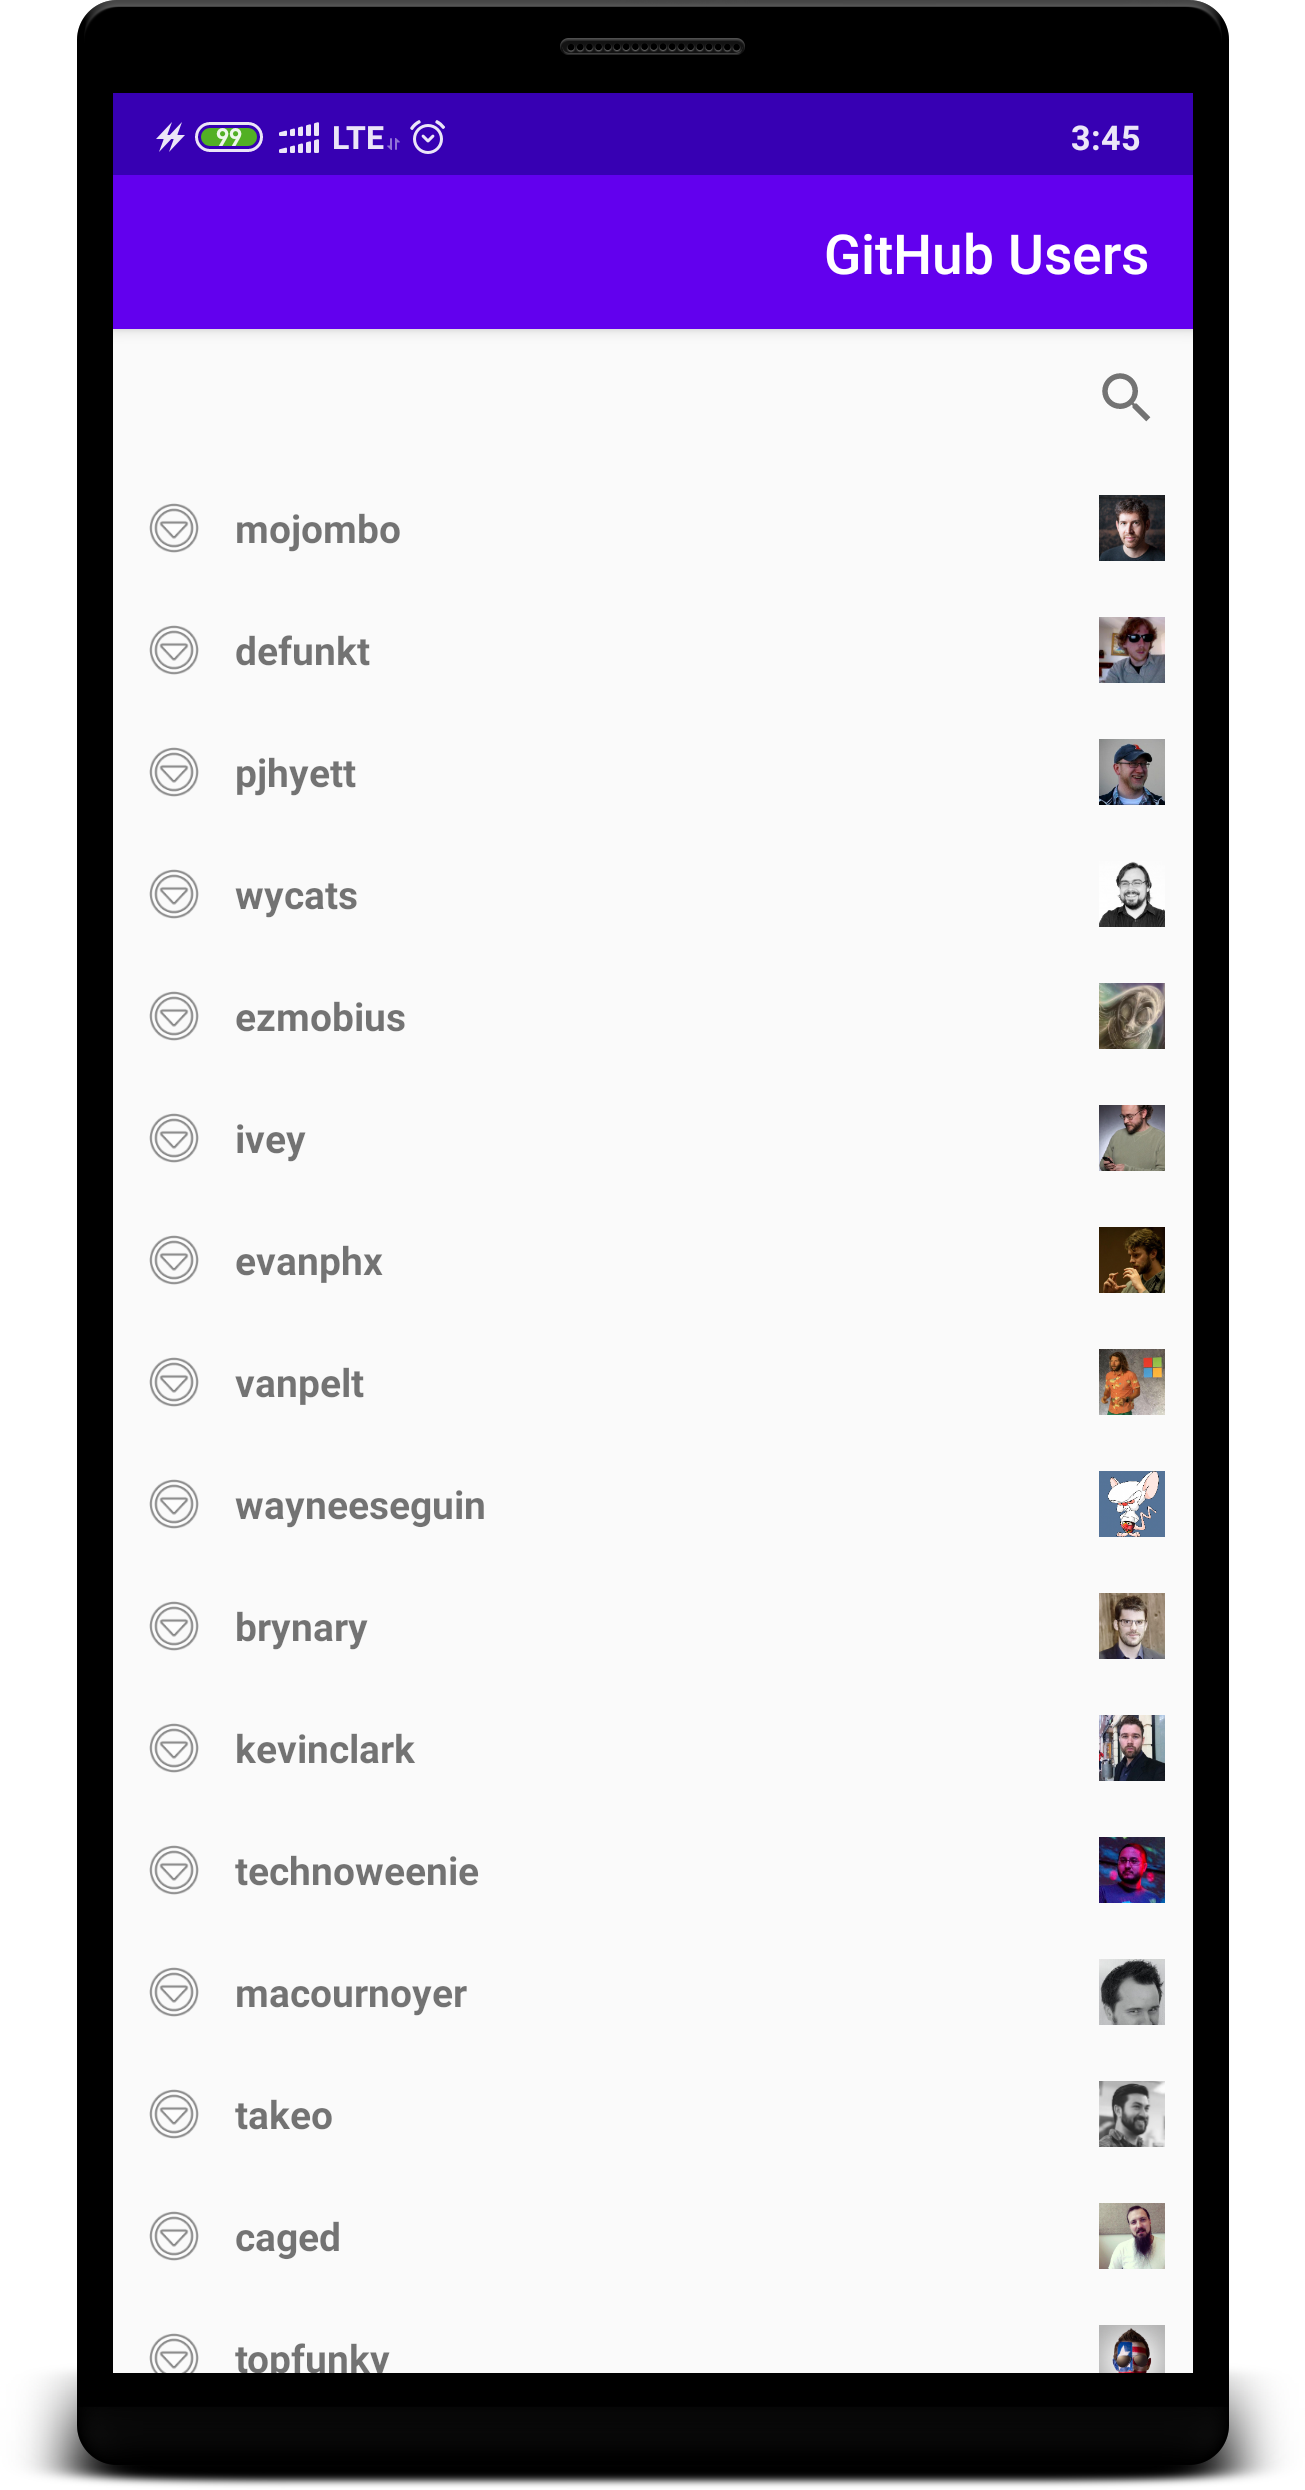
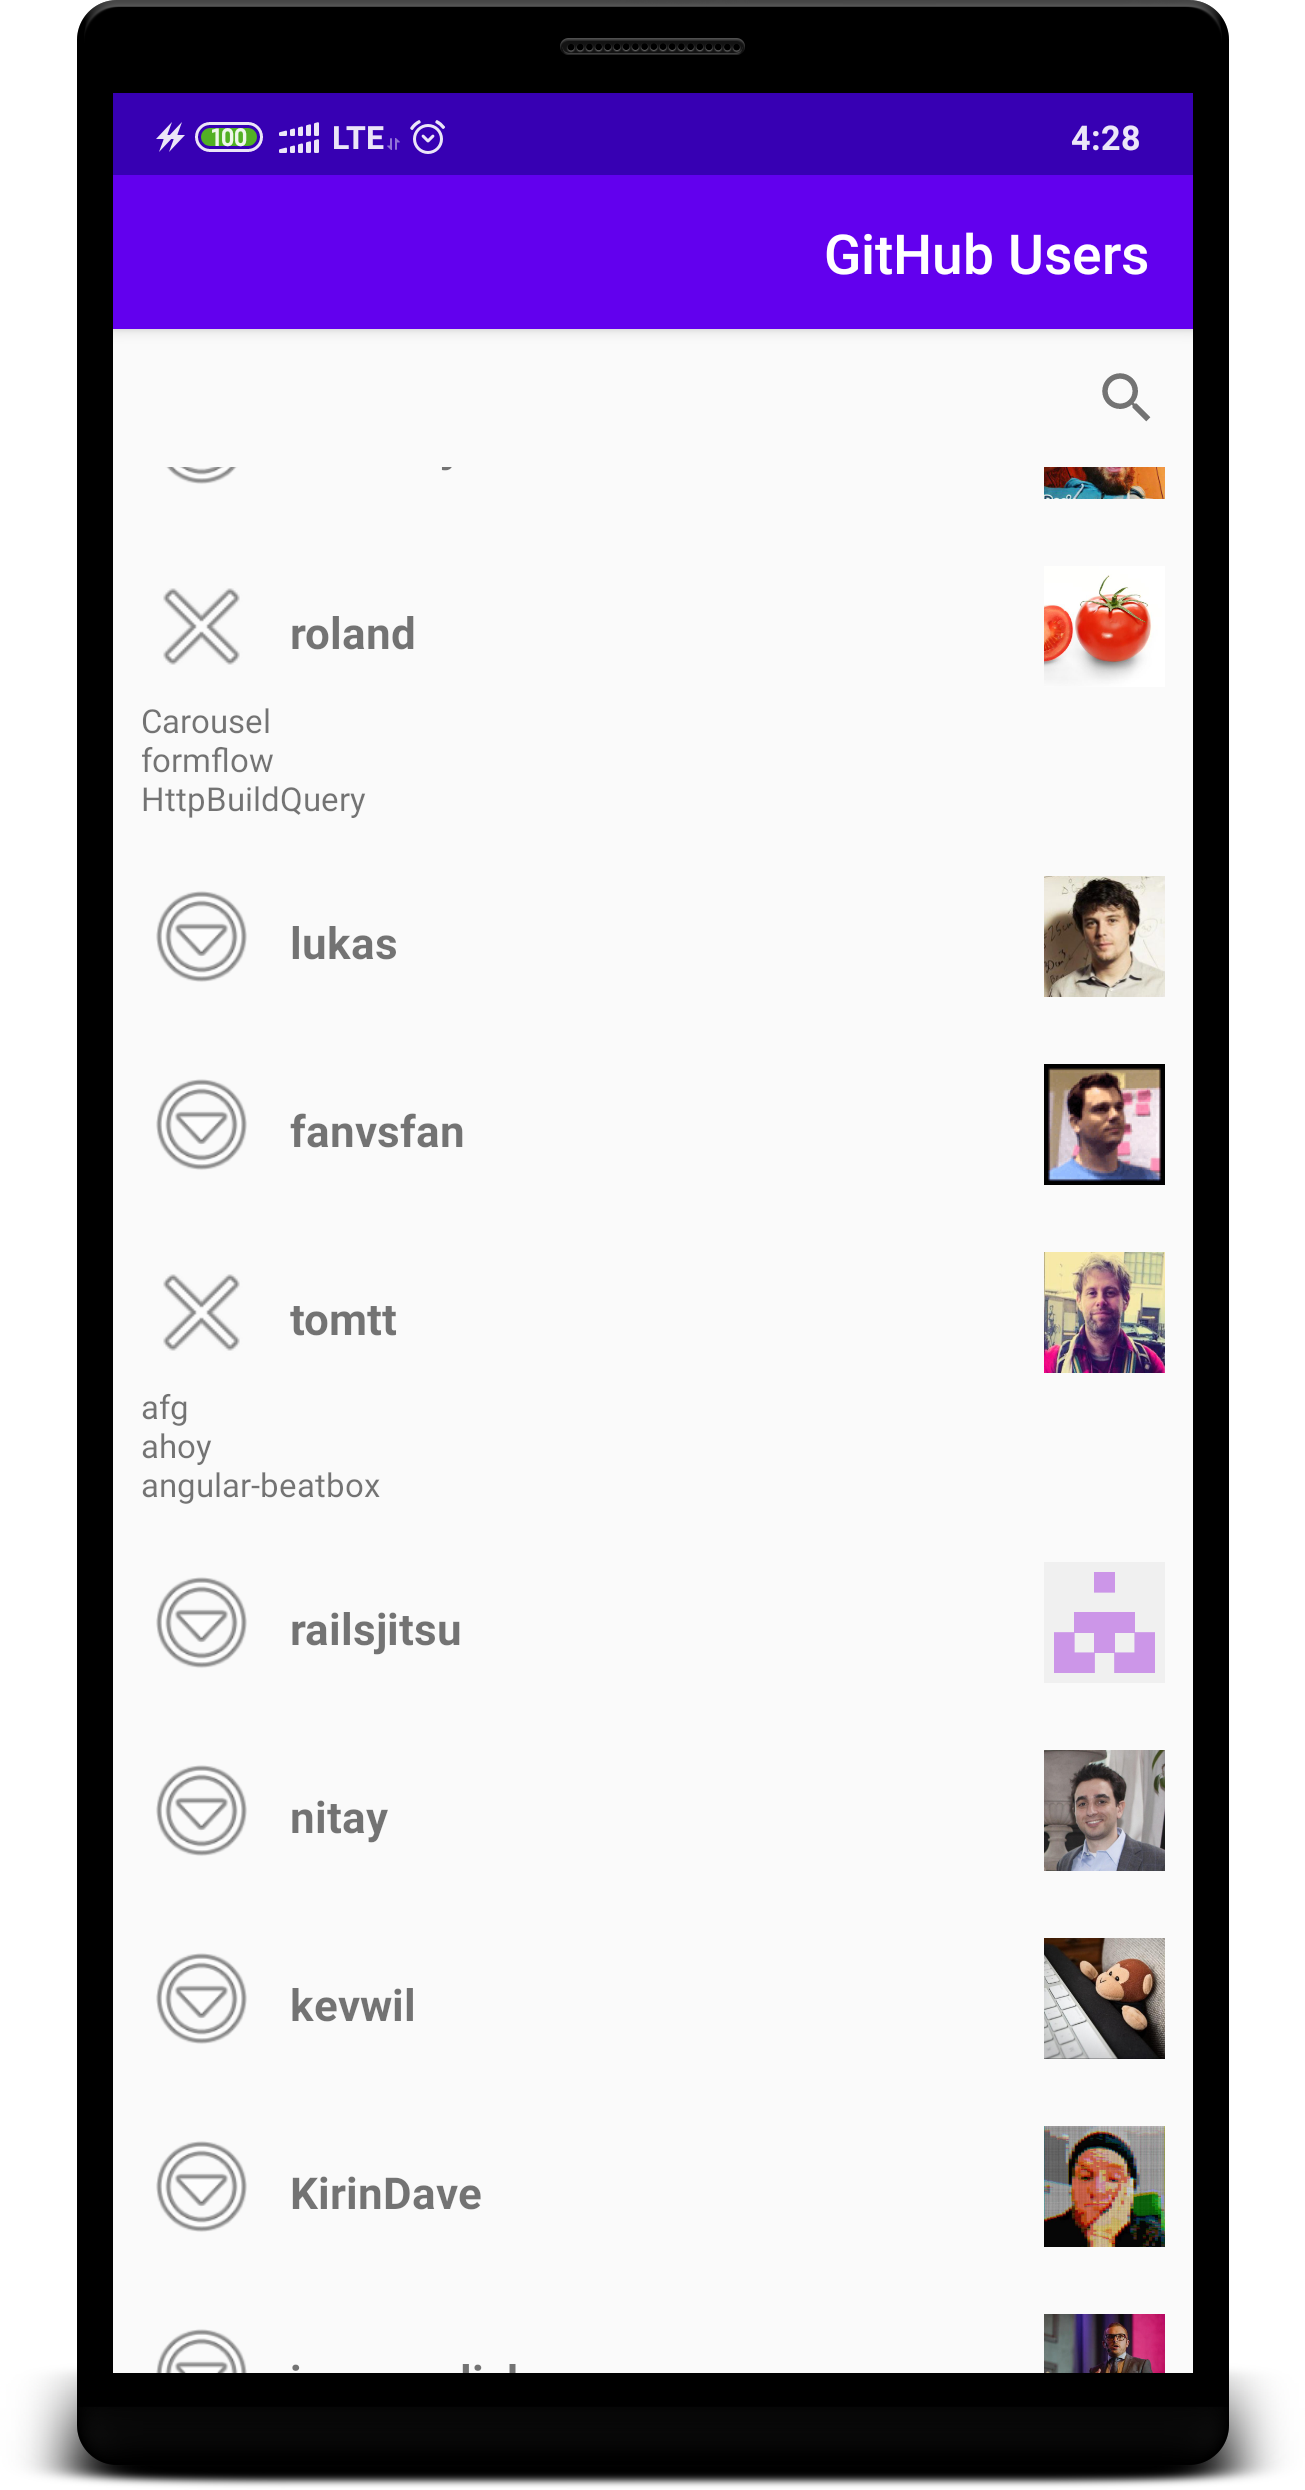
Making buttons easier to click

diff --git a/users/src/main/java/pl/sulej/users/view/adapter/UserDelegateFactory.kt b/users/src/main/java/pl/sulej/users/view/adapter/UserDelegateFactory.kt
@@ -29,25 +29,31 @@ class UserDelegateFactory @Inject constructor(
             showDetails.setOnClickListener {
                 val newExpandedState = item.detailsExpanded.not()
                 userDetailsClicked(UserDetailClick(item.name, newExpandedState))
-                updateDetailsView(newExpandedState, repositories, showDetails)
+                updateDetailsView(newExpandedState, repositories, showDetails, item.name)
             }
 
             bind {
                 imageLoader.load(imageUrl = item.avatarUrl, targetView = avatar)
                 name.text = item.name
                 repositories.text = item.repositoryNames
-                updateDetailsView(item.detailsExpanded, repositories, showDetails)
+                updateDetailsView(item.detailsExpanded, repositories, showDetails, item.name)
             }
         }
 
     private fun updateDetailsView(
         detailsExpanded: Boolean,
         repositories: TextView,
-        showDetails: ImageView
+        showDetails: ImageView,
+        name: String
     ) {
         repositories.visibility = if (detailsExpanded) View.VISIBLE else View.GONE
         val resource = if (detailsExpanded) CLOSE_DRAWABLE_RESOURCE else MORE_DRAWABLE_RESOURCE
         val drawable = ContextCompat.getDrawable(context, resource)
+        val descriptionResource =
+            if (detailsExpanded) R.string.content_description_detail_close
+            else R.string.content_description_detail_more
+        val description = context.getString(descriptionResource, name)
+        showDetails.contentDescription = description
         showDetails.setImageDrawable(drawable)
     }
 

diff --git a/users/src/main/java/pl/sulej/users/presentation/data/UsersConverter.kt b/users/src/main/java/pl/sulej/users/presentation/data/UsersConverter.kt
@@ -15,7 +15,10 @@ class UsersConverter @Inject constructor() : Converter<UserList, List<@JvmSuppre
             User(
                 name = user.userDTO.login,
                 avatarUrl = user.userDTO.avatarUrl,
-                repositoryNames = user.repositories.joinToString(transform = RepositoryDTO::name),
+                repositoryNames = user.repositories.joinToString(
+                    transform = RepositoryDTO::name,
+                    separator = "\n"
+                ),
                 detailsExpanded = input.expandedUserNames.any { it == user.userDTO.login }
             )
         }.filter { user ->

diff --git a/users/src/test/java/pl/sulej/users/presentation/data/UsersConverterTest.kt b/users/src/test/java/pl/sulej/users/presentation/data/UsersConverterTest.kt
@@ -63,7 +63,7 @@ class UsersConverterTest {
         private val OTHER_USER = User(
             name = "user2",
             avatarUrl = "url2",
-            repositoryNames = "repo2x1, repo2x2",
+            repositoryNames = "repo2x1\nrepo2x2",
             detailsExpanded = false
         )
 
@@ -71,7 +71,7 @@ class UsersConverterTest {
             return User(
                 name = "user1",
                 avatarUrl = "url1",
-                repositoryNames = "repo1x1, repo1x2",
+                repositoryNames = "repo1x1\nrepo1x2",
                 detailsExpanded = expanded
             )
         }
